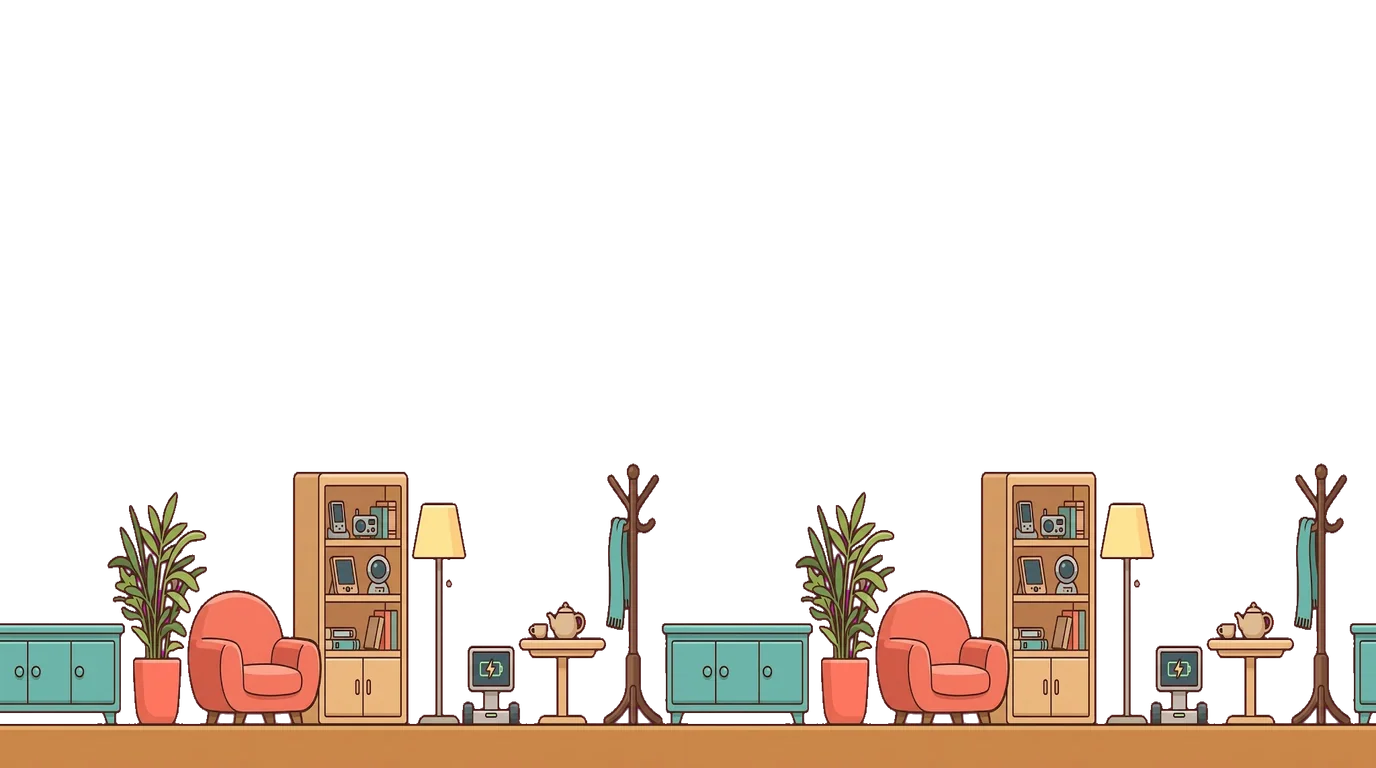
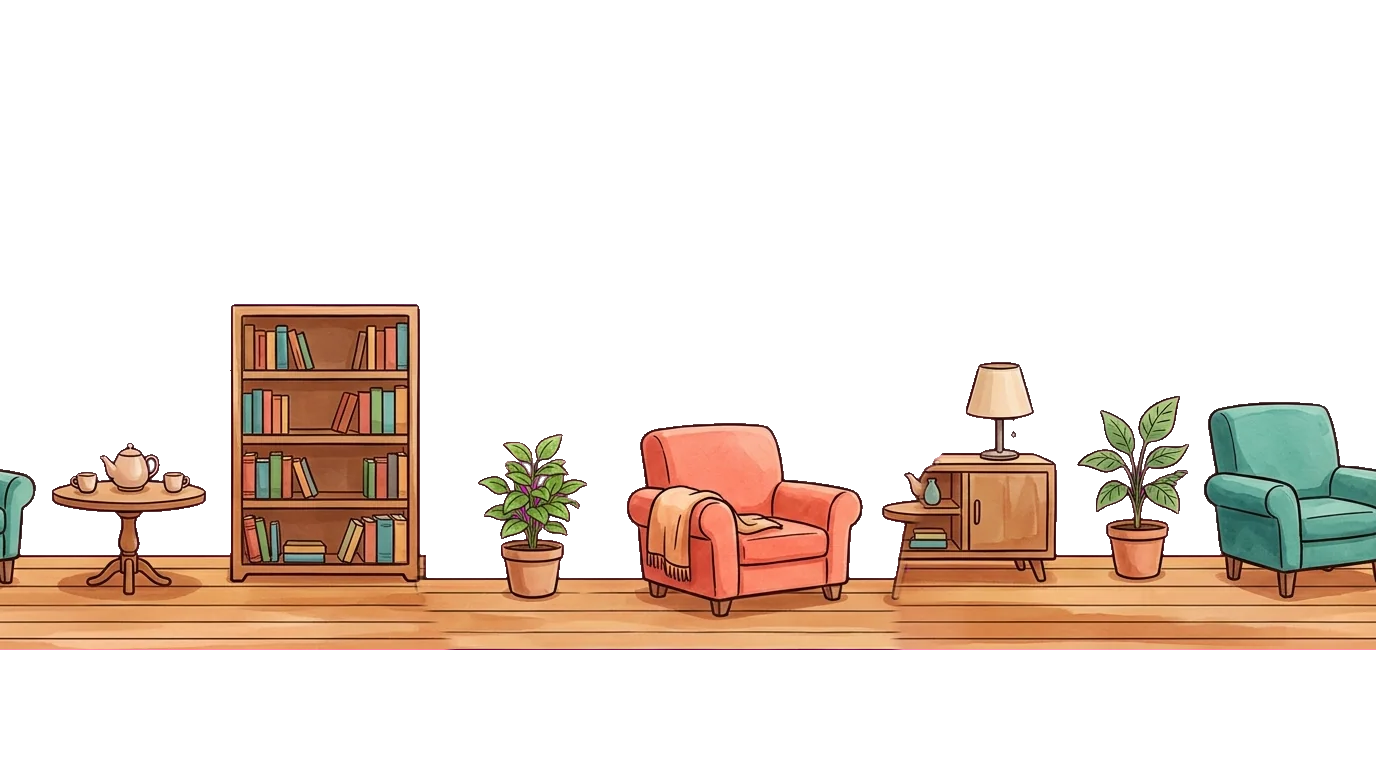
feat(backgrounds): anime-style robohome, drop the old strip path, close plan 64
Claude-Session: https://claude.ai/code/session_01HLbsMSck39H7z7RfpRFnT8

diff --git a/assets-src/PROMPTS.md b/assets-src/PROMPTS.md
@@ -381,9 +381,9 @@ Hand-drawn Japanese anime background art, clearly a drawing and not a photo: thi
 Like the near prompt, with TWO strips of about 330 pixels, "a side view of a band of the world
 seen from some distance: BAND", "rich small details" and "clean thin dark ink outlines".
 
-The table and the world blocks below come from the earlier flat storybook style: from a world
-block keep only the palette and the "Never" line as hints; the scene texts still say what each
-world shows.
+The tables below (here and in the later sections) say what each world shows; all 16 worlds were
+redrawn on 2026-10-25 with the prompts above, so the Height and Status columns are from the earlier
+flat storybook style and no longer apply.
 
 | File | SCENE / LAYER | Height | Status |
 |---|---|---|---|
@@ -405,135 +405,6 @@ world shows.
 | `bg-rescue-far.jpg` | a cozy rescue camp in a calm evening: a few small tents and wooden huts with warm glowing lanterns on poles, soft hills far away, an evening sky from violet to warm peach with a few soft clouds | full | done 2026-10-23 |
 | `bg-rescue-mid.jpg` | a wooden rope bridge between two posts, a lookout tower with a small flag, a tent with a glowing lantern, a stack of crates, a round bush, a signpost with empty boards, a pine and a campfire ring of stones (no fire) | 45 % | done 2026-10-23 (ground gap under the bridge, magenta left between the tower ladder rungs) |
 | `bg-rescue-near.jpg` | evening grass tufts, a small lantern on a stake, a coil of rope, a smooth stone, a short wooden post with a small flag, a fern and a small backpack | 25 % | done 2026-10-23 (the lantern floats beside its stake) |
-
-### World style (fills `WORLD STYLE` in the far and strip prompts)
-Paste the block of the world into every prompt of that world (far, mid, near) in place of
-`WORLD STYLE`, so each picture is generated alone, with no attachment, and still lines up.
-The Ground line is for the far picture; the strip prompt sets its own low ground band.
-Common to all blocks: uniform outline about 2 px (stated per world), flat fills with at most
-one soft lighter band along the top of each shape, no gradients to white, no pale, white or
-pink rim around objects. The far picture keeps its sky small (about the top fifth: most of
-the picture is scenery), because the strips do not use the sky.
-
-What makes `bg-junkyard-near` the reference: one even dark brown-grey outline of the same
-weight on everything; 6 to 12 big whole objects, each drawn once, overlapping a little;
-warm rust, tan and teal fills clearly darker than the beige ground; a low ground band with
-only magenta behind the objects; an uneven top silhouette (a spring, a bolt, a grass tuft
-sticks up here and there, never a straight line); the dark outline meets the magenta
-directly. The flagged pictures fail on one of these: a flat top edge (planet-near), too
-many small pieces and pale fills on a pale ground (robocity), a light pink rim (workshop).
-
-**meadow**
-- Palette: sky #BFE3F5, grass #8CCB6A and #5FA84A, accents warm yellow #F6D55C and pink #F2A5B8, outline #3F5B3A.
-- Outline: 2 px dark green-grey, uniform.
-- Light and shading: flat fills, one soft lighter band on top of hills and bushes.
-- Ground line: grass fills the lower two thirds, hills start at about the middle.
-- Never: sun, moon, white outline, perspective.
-
-**space**
-- Palette: space #1B1F4B and #3A2E7A, glow #F6E7A8, nebula #B58AE6 and #6EC9D8, outline none for glows, #2A2A55 for solid shapes.
-- Outline: 2 px dark indigo on solid shapes only, stars and glows are soft.
-- Light and shading: soft glows, flat planet fills, no gradients to white.
-- Ground line: none, the Earth curve sits at the bottom left only.
-- Never: sun, moon, one big planet in the middle, perspective, white outline.
-
-**planet**
-- Palette: sky #CFF3E4, ground #7FC9A0 and #4E9E8A, accents turquoise #3CC7C0 and lilac #B79CE8, outline #3C5560.
-- Outline: 2 px dark blue-grey, uniform.
-- Light and shading: flat fills, one lighter band on top, glow only on flowers.
-- Ground line: ground and swamp fill the lower half, mushroom trees stand on it.
-- Never: sun, any moon, white outline, pink rim, perspective.
-
-**dragons**
-- Palette: sky #F8C9A0 and #F4A7A0, rock #B98B6E and #8C6A58, moss #8FBF7A, accent #F28C4B, outline #5A3E36.
-- Outline: 2 px dark warm brown, uniform.
-- Light and shading: flat fills, one soft lighter band on top, warm light from the left.
-- Ground line: hills and grass fill the lower two thirds, mountains behind at the middle.
-- Never: visible sun, white outline, pink rim, perspective.
-
-**egg**
-- Palette: sky #CDE9F7, grass #9AD36F and #6DB552, river #6DB8E8, accents #FFD966 and #F7A8C4, outline #44613F.
-- Outline: 2 px dark green, uniform.
-- Light and shading: flat fills, one soft lighter band on top.
-- Ground line: one gentle slope going down from left to right in the lower two thirds.
-- Never: sun, moon, white outline, perspective.
-
-**junkyard**
-- Palette: sky #BFD8E6, ground #CDB48F and #A88C68, rust #B5653A and #D98A52, steel #7FA3AA and #7A7F86, crate #E0B878, outline #4A4038.
-- Outline: 2 px dark brown-grey, uniform (the reference look).
-- Light and shading: flat fills with small rust speckles, one soft lighter band on top.
-- Ground line: beige dusty ground in the lower third, piles rise from it.
-- Never: sun, white or pink outline, perspective, sharp rust-red glare.
-
-**workshop**
-- Palette: wall #D9A66B and #B9814E, wood floor #E7B982, accents mint #9CCFB4, coral #F08F78, steel #A9B0B8, outline #5A3A25.
-- Outline: 2 px dark brown, uniform, also against the magenta.
-- Light and shading: flat warm fills, one soft lighter band on top, warm lamp light only.
-- Ground line: a wooden bench or floor band across the lower quarter.
-- Never: window sun, pale pink or white rim around objects, perspective.
-
-**raintown**
-- Palette: sky #B7C6D6, wet street #8E9AAE and #6F7C93, houses #F2B6A0, #A9D1C2 and #F6D98C, lit windows #FFE9A8, outline #3B4560.
-- Outline: 2 px dark blue-grey, uniform.
-- Light and shading: flat fills, thin lighter reflections on wet ground, soft grey rain lines only in the far picture.
-- Ground line: a wet street band in the lower third.
-- Never: sun, rainbow, white outline, perspective.
-
-**robocity**
-- Palette: sky #CDB8E8 and #E8C9E0, metal #8E97AE and #B9C0D4, ground #6B7391, glow accents #7FE0E8, #F59BC8 and #FFD97A, outline #2F3550.
-- Outline: 2 px dark navy, uniform, thick enough to read against pale fills.
-- Light and shading: flat metal fills clearly darker than light panels, glow only on lights and lines.
-- Ground line: a dark flat ground band in the lower fifth; pieces stand on it with air between them.
-- Never: sun, moon, busy small parts, white outline, perspective.
-
-**robohome**
-- Palette: wall #F3DDB8 and #E2C092, floor #C98F5B, accents teal #6FBDB5, coral #F08A7A, lamp #FFE29A, outline #5A3F33.
-- Outline: 2 px dark brown, uniform.
-- Light and shading: flat warm fills, one soft lighter band on top, glow only around lamps.
-- Ground line: a wooden floor band across the lower quarter.
-- Never: outdoor sun, white or pink rim, perspective.
-
-**garden**
-- Palette: sky #C9E8F7, grass #9AD27A and #6FB65A, flowers pink #F5A3C0, lilac #C3A5E8, yellow #FFE08A, outline #4A6340.
-- Outline: 2 px dark green, uniform.
-- Light and shading: flat fills, one soft lighter band on top of bushes.
-- Ground line: grass in the lower third, flower beds above it.
-- Never: sun, open bright blooms in the strips (buds only), white outline, perspective.
-
-**forestpath**
-- Palette: sky #DDEFD9, trunks #8B6B52 and #6E5441, leaves #7DBE7A and #4F9A63, path #D9BE8F, moss #A7D18B, outline #3E4A38.
-- Outline: 2 px dark green-brown, uniform.
-- Light and shading: flat fills, soft green light only from above, no light beams.
-- Ground line: forest floor in the lower quarter, trunks rise from it.
-- Never: sun disc, white outline, pink rim, perspective.
-
-**lilylake**
-- Palette: sky #D6ECF7, water #8FC9DD and #6BB0CC, reeds #7DB56A, lily pads #5FA86A, lilies #F5B5CC, pebbles #B9B4A8, outline #3F5760.
-- Outline: 2 px dark blue-green, uniform.
-- Light and shading: flat fills, ripples as thin lighter lines, no mirror reflections.
-- Ground line: the shore or water band in the lower third.
-- Never: sun, moon, white outline, perspective.
-
-**musictree**
-- Palette: sky #D9C6F0 and #F2C9DC, trees #8E7CC8 and #6C9E8A, grass #86B38A, glow accents #FFD97A and #9AE0E8, outline #4A3F6B.
-- Outline: 2 px dark violet, uniform.
-- Light and shading: flat fills, one soft lighter band on top, glow only on bells and flowers.
-- Ground line: grass in the lower quarter, round trees behind.
-- Never: sun, moon, white outline, perspective.
-
-**rescue** (the rescue camp of every rescue mission, not a world of its own)
-- Palette: sky #4A3F7A and #F2B08A, hills #5A4E78 and #3A3354, wood #8A6248, lanterns #FFC861 with glow #FFE3A8, tents #E89B6A and #6FA8A0, outline #2A2440.
-- Outline: 2 px dark violet-grey, uniform.
-- Light and shading: flat evening fills, one soft lighter band on top, warm glow only around lanterns.
-- Ground line: dusky grass in the lower quarter, the camp stands on it.
-- Never: sun, moon, fire flames, white outline, pink rim, perspective.
-
-**moonball**
-- Palette: sky #1E2556 and #3D2F7A, bushes #2E4A6B and #3F6E7A, grass #3C6A63, glow accents #FFE9A0 and #9AF0D8, outline #141B3D.
-- Outline: 2 px very dark navy, uniform.
-- Light and shading: flat dark fills, glow only on lanterns, mushrooms and fireflies, soft stars in the far sky.
-- Ground line: dark grass in the lower quarter.
-- Never: any moon, sun, white outline, pink rim, perspective.
 
 ## 4. Game objects (sprites)
 

diff --git a/.specify/experience/visuals.md b/.specify/experience/visuals.md
@@ -11,15 +11,15 @@
   shrink, grow or spin to be happy, which looks like pain or an object; balls, leaves, stars
   and sparks may spin.
 - Background skies repeat across wide screens, so they are even (clouds or a gradient,
-  no sun, moon or single planet). The ground layers in front are close-up strips placed
-  along the bottom of the screen at a set height per world.
-- World backgrounds are being redrawn as hand-drawn Japanese anime background art, rich in
-  detail: a small sky, the far scene without near objects, then a middle band and a low
-  closest band. Each layer joins its own left and right edge exactly, so it repeats with no
-  visible seam and no ghosting; a cross-fade at the joins showed doubled flowers and hills.
-- Every background layer is generated from a standalone prompt: each world has a written style
-  spec (palette, outline weight, light, ground line, what never appears) pasted into its far,
-  mid and near prompts, so a strip needs no attached picture and still matches.
+  no sun, moon or single planet).
+- World backgrounds are hand-drawn Japanese anime background art, rich in detail but calm
+  enough for big words on top: a small sky, the far scene without near objects, then a middle
+  band and a low closest band (in space: distant stars and small asteroids instead). Each layer
+  joins its own left and right edge exactly, so it repeats with no visible seam and no
+  ghosting; a cross-fade at the joins showed doubled flowers and hills. Things in the front
+  layers stay small, as a big one shows twice on a wide screen.
+- Every background picture is generated from a written prompt with the style described in
+  words; attached sample pictures were copied too closely and cost the free daily limit.
 - Big, readable words on targets, with high contrast against the scene; practice words
   and their info line keep a minimum on-screen size in small windows.
 - One button set everywhere: every round button is the same white circle with a ring, a colored

diff --git a/.todo/.done/64-world-backgrounds.md b/.todo/.done/64-world-backgrounds.md
@@ -40,13 +40,19 @@ far as a night sky scene, mid and near as sparse star layers on magenta, no stri
 - [x] workshop (far seam repainted over 50 % with new things in the middle: the wall repeated a motif)
 - [x] raintown
 - [x] robocity
-- [ ] robohome
+- [x] robohome (a new far with an even plank wall; its seam repainted over 40 %)
 - [x] garden
 - [x] forestpath
 - [x] lilylake
 - [x] musictree
 - [x] moonball
 - [x] rescue
-- [ ] When every world is redrawn: drop `STRIP_HEIGHT`, `writeStrip` and the 21:9 strip path from
+- [x] When every world is redrawn: drop `STRIP_HEIGHT`, `writeStrip` and the 21:9 strip path from
       `scripts/assets.mjs` (no layer uses them any more) and the old table and world blocks from
       PROMPTS.md that the new prompts replaced
+
+## Done - 2026-10-25
+All 16 worlds redrawn (far, mid, near at 1376 x 768) and checked as previews; meadow, space and
+the portrait layout also in the game. Left out: per-world fine tuning of the mid lift and the
+strip heights (the owner reviews the worlds in the game); the robohome floor strip shows its
+quilt joins (backlog).

diff --git a/.todo/BACKLOG.md b/.todo/BACKLOG.md
@@ -7,3 +7,4 @@ Search before adding; an entry is worked only when it is named.
 - [P3] An update re-downloads the whole install cache - scripts/sw-template.js addAll(CORE) fetches every file again when the version changes (about 6.6 MB)
 - [P3] Check .tapko sharing and opening on real devices - src/screens/teacher.ts sendDialog uses Web Share with files (Android, iPhone) and main.ts launchQueue opens a double-clicked .tapko in installed Chrome/Edge (plan 59); neither is testable here
 - [P2] Mole and molehill are one picture - assets-src/obj-mole.jpg draws the mole inside its hill; the mole level (src/game/modes/egg.ts) needs the mole and the molehill as separate pictures
+- [P3] Robohome floor strip shows its seam joins - public/assets/bg-robohome-near.webp: quilt cut the regular planks diagonally (V lines every screen width); repaint that seam or regenerate the floor strips

diff --git a/.todo/QUEUE.md b/.todo/QUEUE.md
@@ -7,4 +7,3 @@ listed here is never run. Lines whose plan has moved to `.todo/.done/` are
 skipped, and the session that finishes a plan removes its line.
 
 - [P2] 63-translator.md - parent translator page for every text and own languages; no other plan open
-- [P2] 64-world-backgrounds.md - world backgrounds one by one; needs the Gemini bridge and the free limit, independent of 63
